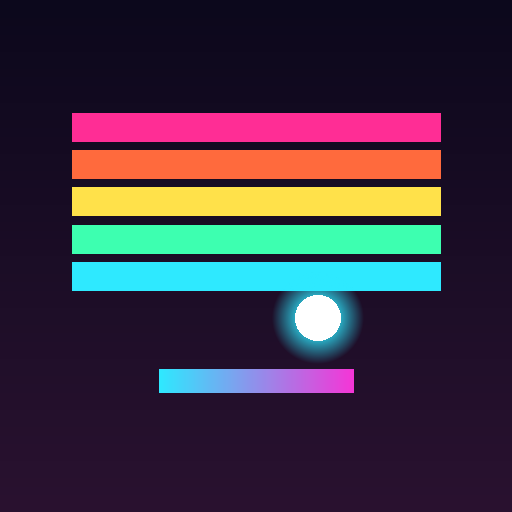
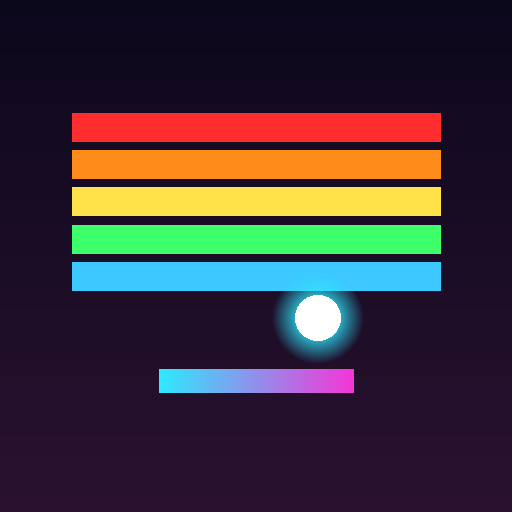
Slow the ball's speed ramp and use a seven-color rainbow.
Start speeds and the cap are lower, and speed now grows much more slowly with time and hits. Normal brick rows run red, orange, yellow, green, light blue, blue, violet in every theme.

Changed region(s): [[0.125, 0.2188, 0.875, 0.375], [0.125, 0.4375, 0.875, 0.5938]]

diff --git a/js/themes.js b/js/themes.js
@@ -1,11 +1,15 @@
 export const THEME_IDS = ['neon', 'classic', 'space', 'minimal'];
 
-/** 0–6 normals, 7 two-hit, 8 three-hit, 9 metal, 10 explosive. */
+/**
+ * 0–6 are the spectral rainbow in row order:
+ * red, orange, yellow, green, голубой, blue, violet.
+ * 7 two-hit, 8 three-hit, 9 metal, 10 explosive.
+ */
 export const PALETTES = {
-  neon: ['#ff2d95', '#ff6a3d', '#ffe14a', '#3dffb0', '#2ee9ff', '#6aa4ff', '#d06bff', '#f4f7ff', '#ffd36a', '#9aa3b8', '#ff4d6d'],
-  classic: ['#e23d3d', '#f07a22', '#f2c14e', '#35c85a', '#2ec6d6', '#3a6fe8', '#b45ad4', '#ece6d2', '#f0c14a', '#8e95ad', '#ff5b7a'],
-  space: ['#e07a5f', '#c45c48', '#e0a15a', '#81b36a', '#7f9ec4', '#8d74c9', '#4eaea8', '#e6d3b3', '#f2d39b', '#8d887f', '#ffb703'],
-  minimal: ['#f4a5b8', '#f7c59f', '#f6e7a8', '#b7e4c7', '#a9def9', '#c4b5fd', '#ffc6ff', '#e7e5e4', '#fde68a', '#cbd5e1', '#fda4af'],
+  neon: ['#FF2D2D', '#FF8C1A', '#FFE14A', '#3DFF6A', '#3DC8FF', '#3D5BFF', '#8B3DFF', '#F4F7FF', '#FFD36A', '#9AA3B8', '#F6F1E4'],
+  classic: ['#E02020', '#F07818', '#F0D020', '#22B83A', '#20B4E0', '#2454E0', '#7028C8', '#E8E0C8', '#E8B830', '#8E95AD', '#F4E6C0'],
+  space: ['#D04840', '#E07830', '#E0B040', '#3C9A48', '#3A94C4', '#3050B0', '#7040B0', '#E6D3B3', '#E8C878', '#8D887F', '#C47848'],
+  minimal: ['#E24B4B', '#F08A2A', '#E8C22E', '#3EAE58', '#3AADD4', '#3A62D0', '#7A45C4', '#E7E5E4', '#E8C56A', '#B0B6C0', '#E4D2B0'],
 };
 
 export const THEME_COLOR = {

diff --git a/js/game.js b/js/game.js
@@ -7,11 +7,12 @@ import {
   launchStuck,
   rampSpeed,
   stepWorld,
-} from './physics.js?v=1.0.1';
-import { LEVELS, createBricks } from './levels.js?v=1.0.1';
-import { PALETTES } from './themes.js?v=1.0.1';
+} from './physics.js?v=1.0.2';
+import { LEVELS, createBricks } from './levels.js?v=1.0.2';
+import { PALETTES } from './themes.js?v=1.0.2';
 
-const SPEED = { calm: 265, normal: 325, fast: 400 };
+const SPEED = { calm: 230, normal: 280, fast: 340 };
+const SPEED_CAP = 1.32;
 const PADDLE_W = 86;
 const PADDLE_WIDE = 136;
 const PADDLE_NARROW = 52;
@@ -627,7 +628,7 @@ export function createGame(settings, audio, progress, onPersist) {
     for (const key of Object.keys(timers)) timers[key] = Math.max(0, timers[key] - dt);
     levelTime += dt;
     const base = baseSpeed();
-    rawSpeed = rampSpeed(base, levelTime, brickHits, base * 1.72);
+    rawSpeed = rampSpeed(base, levelTime, brickHits, base * SPEED_CAP);
     ballSpeed = rawSpeed * (timers.slow > 0 ? 0.62 : 1);
     world.paddle.w = paddleWidth();
     world.sticky = timers.sticky > 0;

diff --git a/js/main.js b/js/main.js
@@ -1,10 +1,10 @@
-import { VERSION } from './version.js?v=1.0.1';
-import { SIM_DT } from './physics.js?v=1.0.1';
-import { THEME_COLOR } from './themes.js?v=1.0.1';
-import { createGame } from './game.js?v=1.0.1';
-import { createRenderer } from './render.js?v=1.0.1';
-import { createAudio } from './audio.js?v=1.0.1';
-import { loadState, saveState } from './storage.js?v=1.0.1';
+import { VERSION } from './version.js?v=1.0.2';
+import { SIM_DT } from './physics.js?v=1.0.2';
+import { THEME_COLOR } from './themes.js?v=1.0.2';
+import { createGame } from './game.js?v=1.0.2';
+import { createRenderer } from './render.js?v=1.0.2';
+import { createAudio } from './audio.js?v=1.0.2';
+import { loadState, saveState } from './storage.js?v=1.0.2';
 
 const saved = loadState();
 const settings = saved.settings;

diff --git a/sw.js b/sw.js
@@ -1,20 +1,20 @@
-const VERSION = '1.0.1';
+const VERSION = '1.0.2';
 const CACHE = `arkanoid-${VERSION}`;
 
 const ASSETS = [
   './',
   './index.html',
   './manifest.json',
-  './css/style.css?v=1.0.1',
-  './js/version.js?v=1.0.1',
-  './js/main.js?v=1.0.1',
-  './js/game.js?v=1.0.1',
-  './js/physics.js?v=1.0.1',
-  './js/levels.js?v=1.0.1',
-  './js/render.js?v=1.0.1',
-  './js/audio.js?v=1.0.1',
-  './js/storage.js?v=1.0.1',
-  './js/themes.js?v=1.0.1',
+  './css/style.css?v=1.0.2',
+  './js/version.js?v=1.0.2',
+  './js/main.js?v=1.0.2',
+  './js/game.js?v=1.0.2',
+  './js/physics.js?v=1.0.2',
+  './js/levels.js?v=1.0.2',
+  './js/render.js?v=1.0.2',
+  './js/audio.js?v=1.0.2',
+  './js/storage.js?v=1.0.2',
+  './js/themes.js?v=1.0.2',
   './icons/icon-192.png',
   './icons/icon-512.png',
 ];

diff --git a/index.html b/index.html
@@ -12,7 +12,7 @@
   <link rel="manifest" href="./manifest.json" />
   <link rel="icon" href="./icons/icon-192.png" />
   <link rel="apple-touch-icon" href="./icons/icon-192.png" />
-  <link rel="stylesheet" href="./css/style.css?v=1.0.1" />
+  <link rel="stylesheet" href="./css/style.css?v=1.0.2" />
 </head>
 <body data-theme="neon">
   <script>
@@ -152,6 +152,6 @@
     </div>
   </div>
   <noscript>Нужен JavaScript, чтобы играть.</noscript>
-  <script type="module" src="./js/main.js?v=1.0.1"></script>
+  <script type="module" src="./js/main.js?v=1.0.2"></script>
 </body>
 </html>

diff --git a/js/physics.js b/js/physics.js
@@ -40,9 +40,14 @@ export function clampVelocity(vx, vy, speed) {
   };
 }
 
+/** Fraction of the base speed added per second inside a level. */
+export const SPEED_TIME_RATE = 0.012;
+/** Fraction of the base speed added per brick hit. */
+export const SPEED_HIT_RATE = 0.0022;
+
 /** Target speed grows with time and brick hits, then stops at the cap. */
 export function rampSpeed(base, levelTime, hits, cap) {
-  const target = base * (1 + levelTime * 0.045 + hits * 0.009);
+  const target = base * (1 + levelTime * SPEED_TIME_RATE + hits * SPEED_HIT_RATE);
   return Math.min(cap, target);
 }
 

diff --git a/tools/make-icons.js b/tools/make-icons.js
@@ -62,11 +62,11 @@ function drawIcon(size) {
     }
   }
   const colors = [
-    [255, 45, 149],
-    [255, 106, 61],
+    [255, 45, 45],
+    [255, 140, 26],
     [255, 225, 74],
-    [61, 255, 176],
-    [46, 233, 255],
+    [61, 255, 106],
+    [61, 200, 255],
   ];
   const brickW = size * 0.72;
   const brickH = size * 0.055;

diff --git a/js/render.js b/js/render.js
@@ -1,5 +1,5 @@
-import { FIELD_H, FIELD_W } from './physics.js?v=1.0.1';
-import { PALETTES } from './themes.js?v=1.0.1';
+import { FIELD_H, FIELD_W } from './physics.js?v=1.0.2';
+import { PALETTES } from './themes.js?v=1.0.2';
 
 const CAPSULE = {
   wide: { glyph: '↔', fill: '#2ee9ff' },

diff --git a/js/version.js b/js/version.js
@@ -1,2 +1,2 @@
 /** Bump together with the ?v= query in HTML/JS imports and sw.js. */
-export const VERSION = '1.0.1';
+export const VERSION = '1.0.2';
